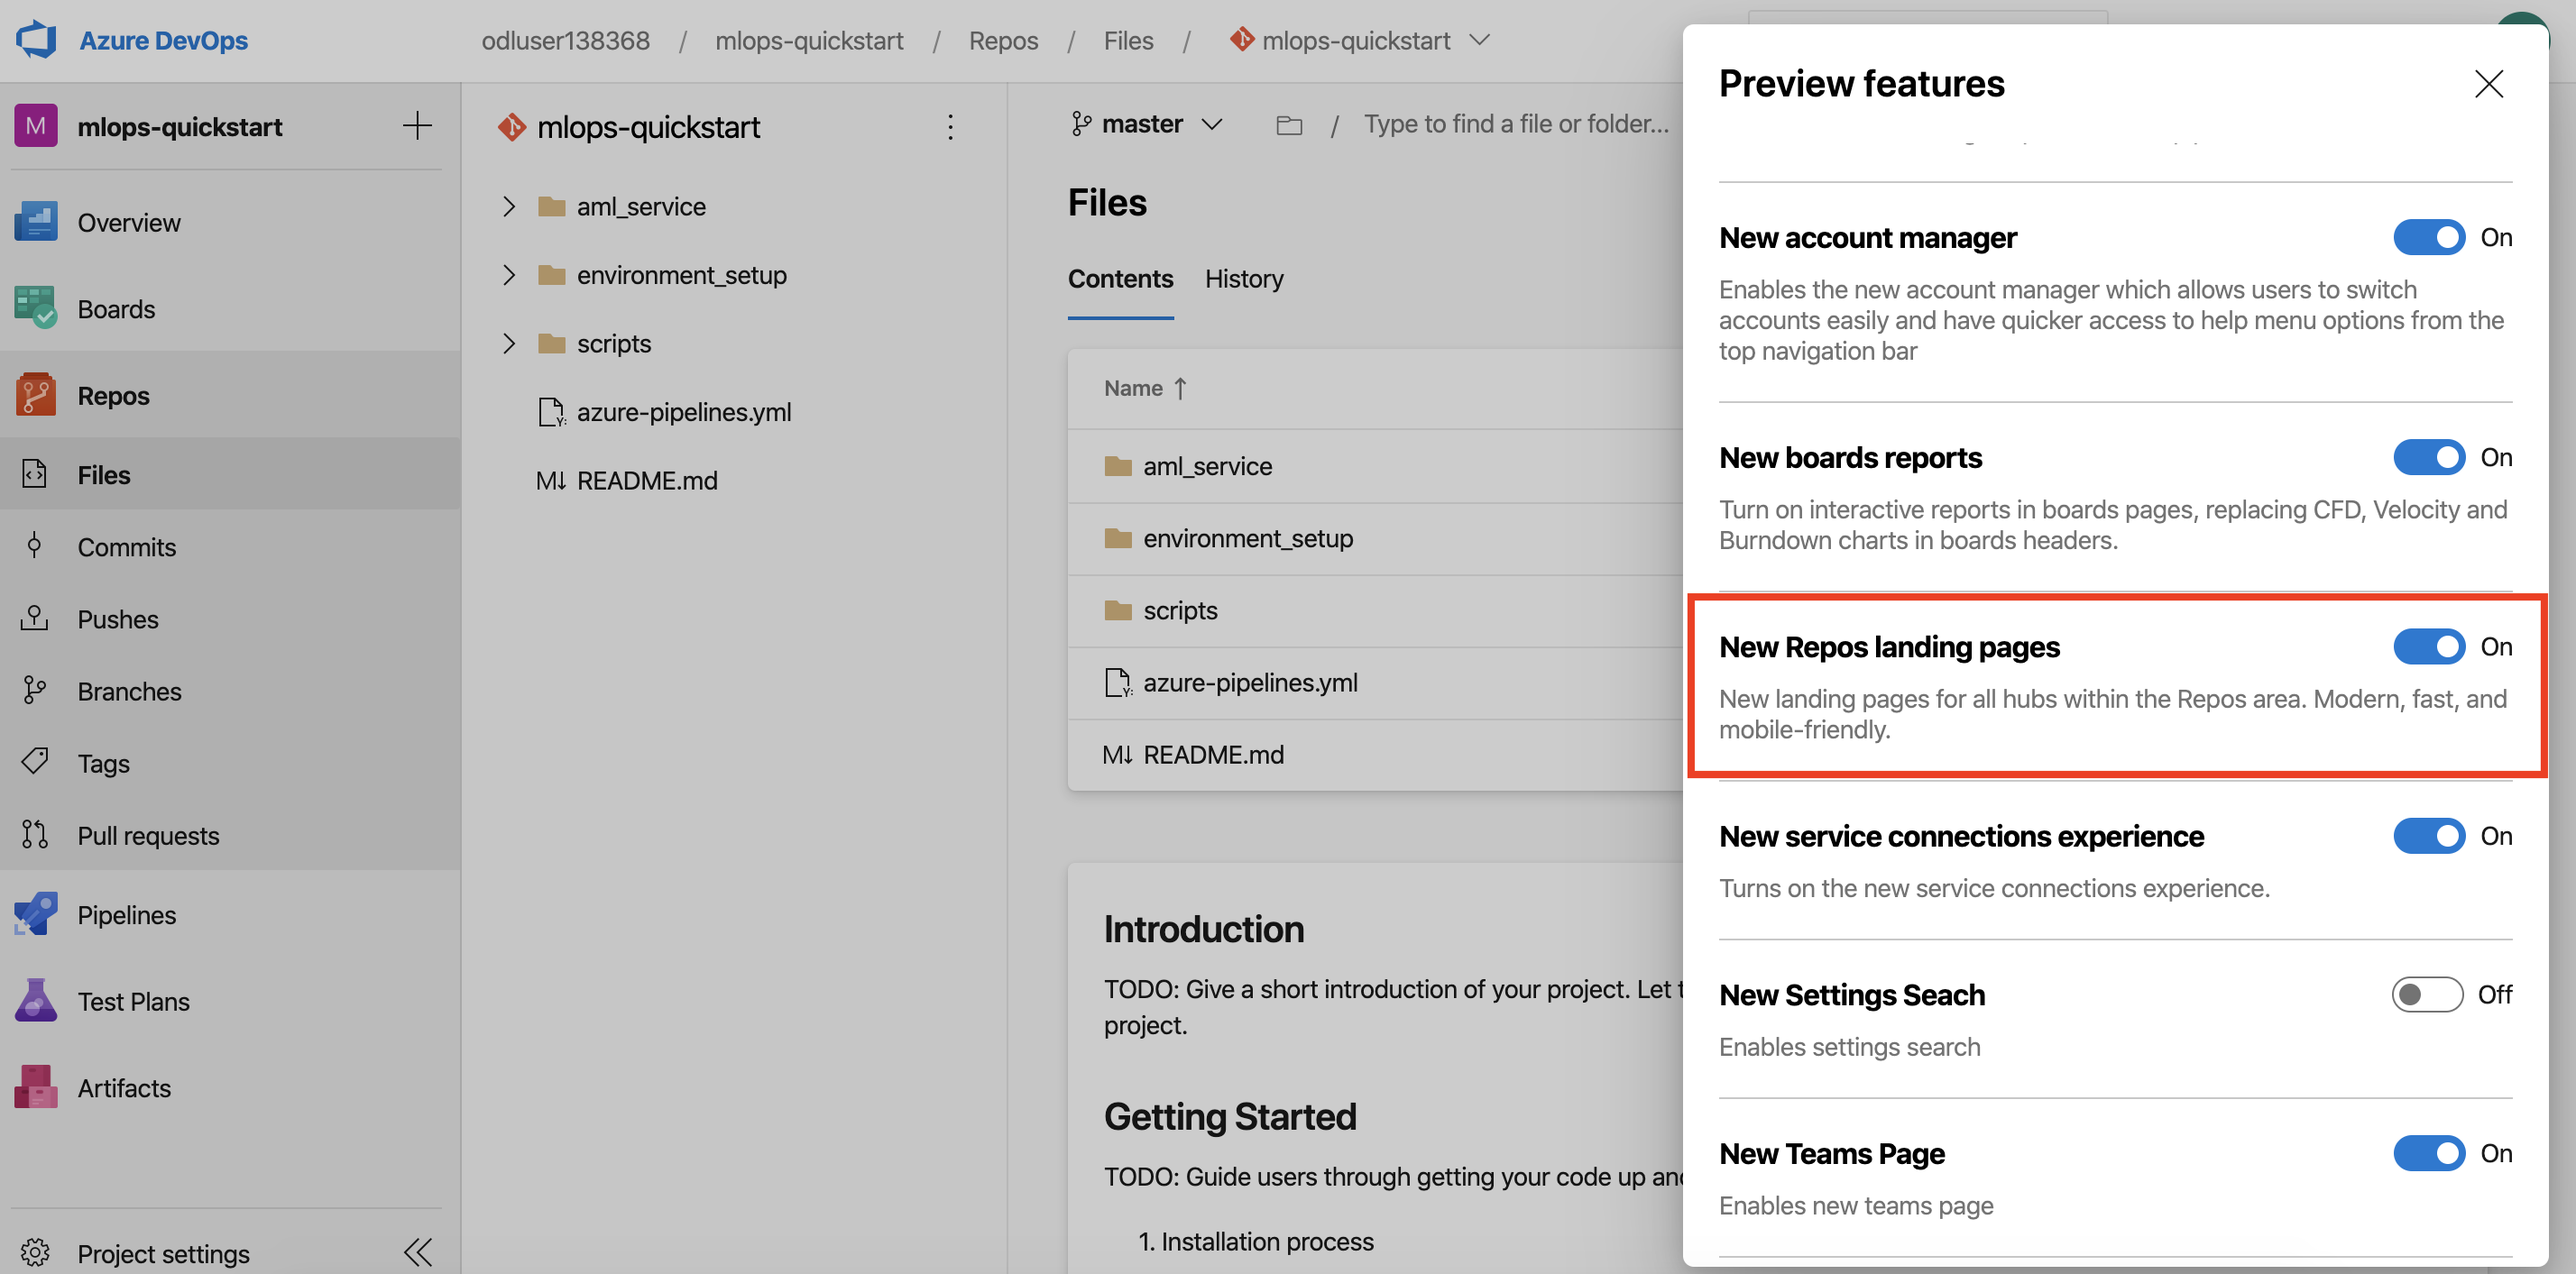
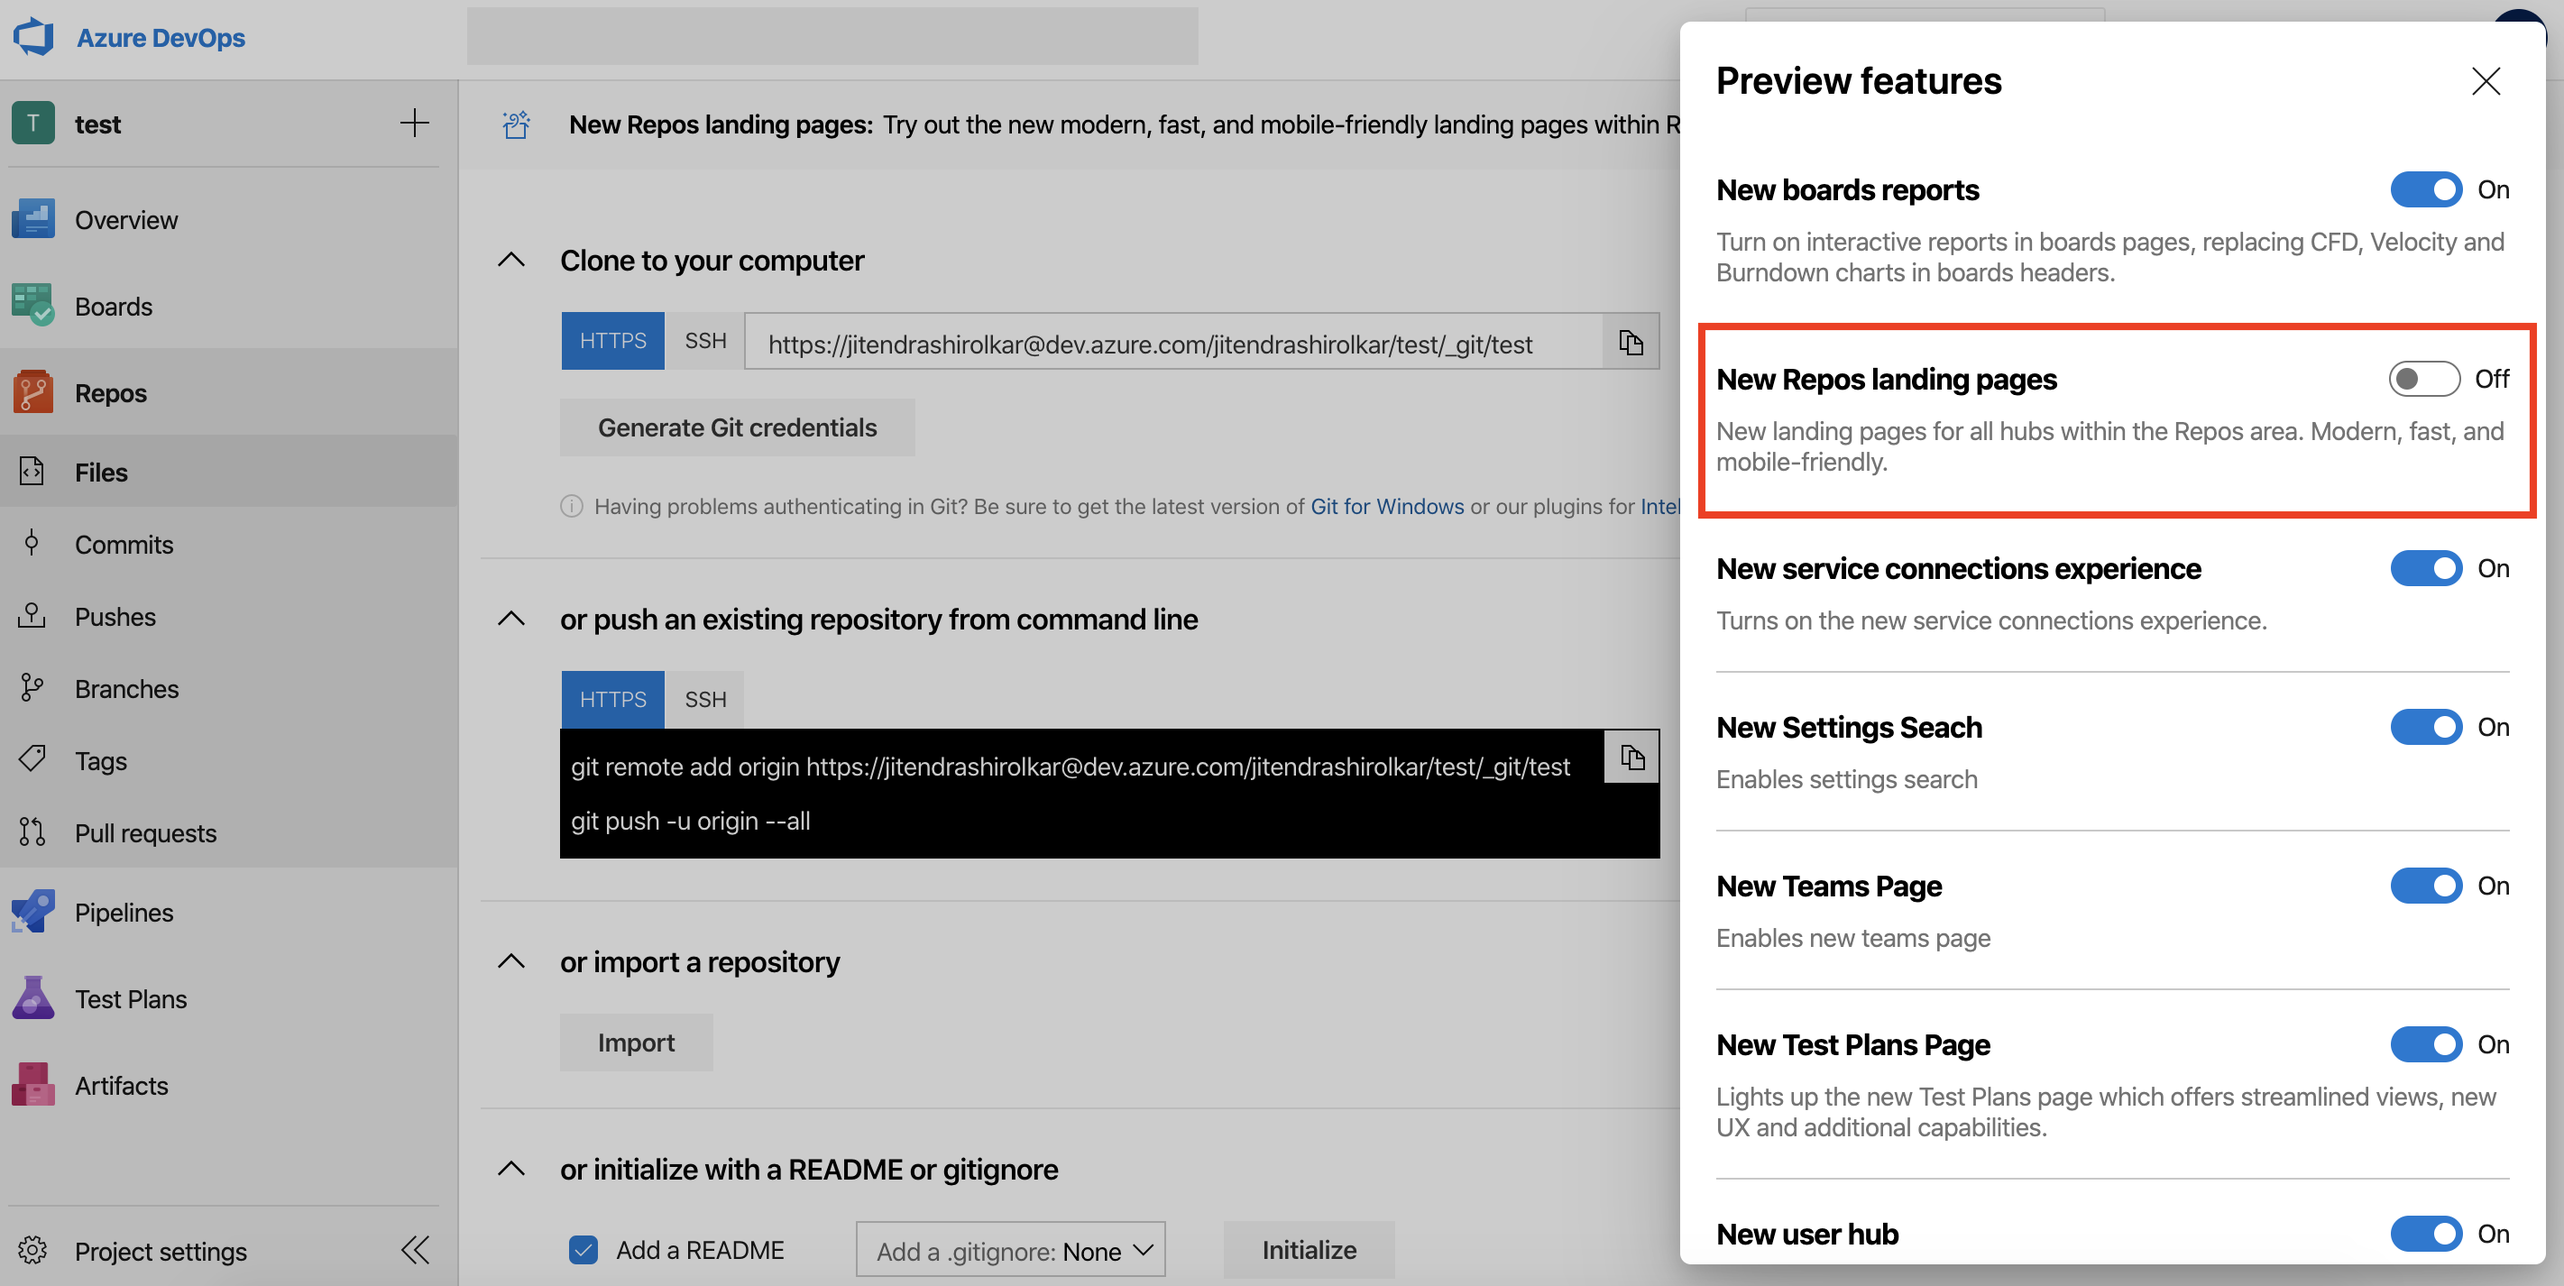
Fix issue #16

diff --git a/Hands-on lab/HOL step-by step - MLOps.md b/Hands-on lab/HOL step-by step - MLOps.md
@@ -199,6 +199,18 @@ Duration: 20 minutes
 
     ![Provide the above GitHub URL and select import to import the source code.](media/devops-project-04.png 'Import a Git repository dialog')
 
+    *Note that if you receive an error while importing the repository, please disable the preview feature `New Repos landing pages` as shown in steps #3, #4, and #5 below and try to import the GitHub repository again from the old UI.*
+
+3. [Optional] Select **Account settings, Preview features**.
+
+    ![The image shows how to navigate to the list of preview features.](media/preview_features-01.png 'Preview features')
+
+4. [Optional] From the list of preview features, disable the preview feature `New Repos landing pages`.
+
+   ![The image shows a list of preview features and highlights the preview feature, New Repos landing pages.](media/preview_features-02.png 'Disable New Repos landing pages')
+
+5. [Optional] Repeat Step #1 above to import the GitHub repository from the old UI.
+
 ### Task 3: Update the build YAML file
 
 1. Select and open the `azure-pipelines.yml` file.
